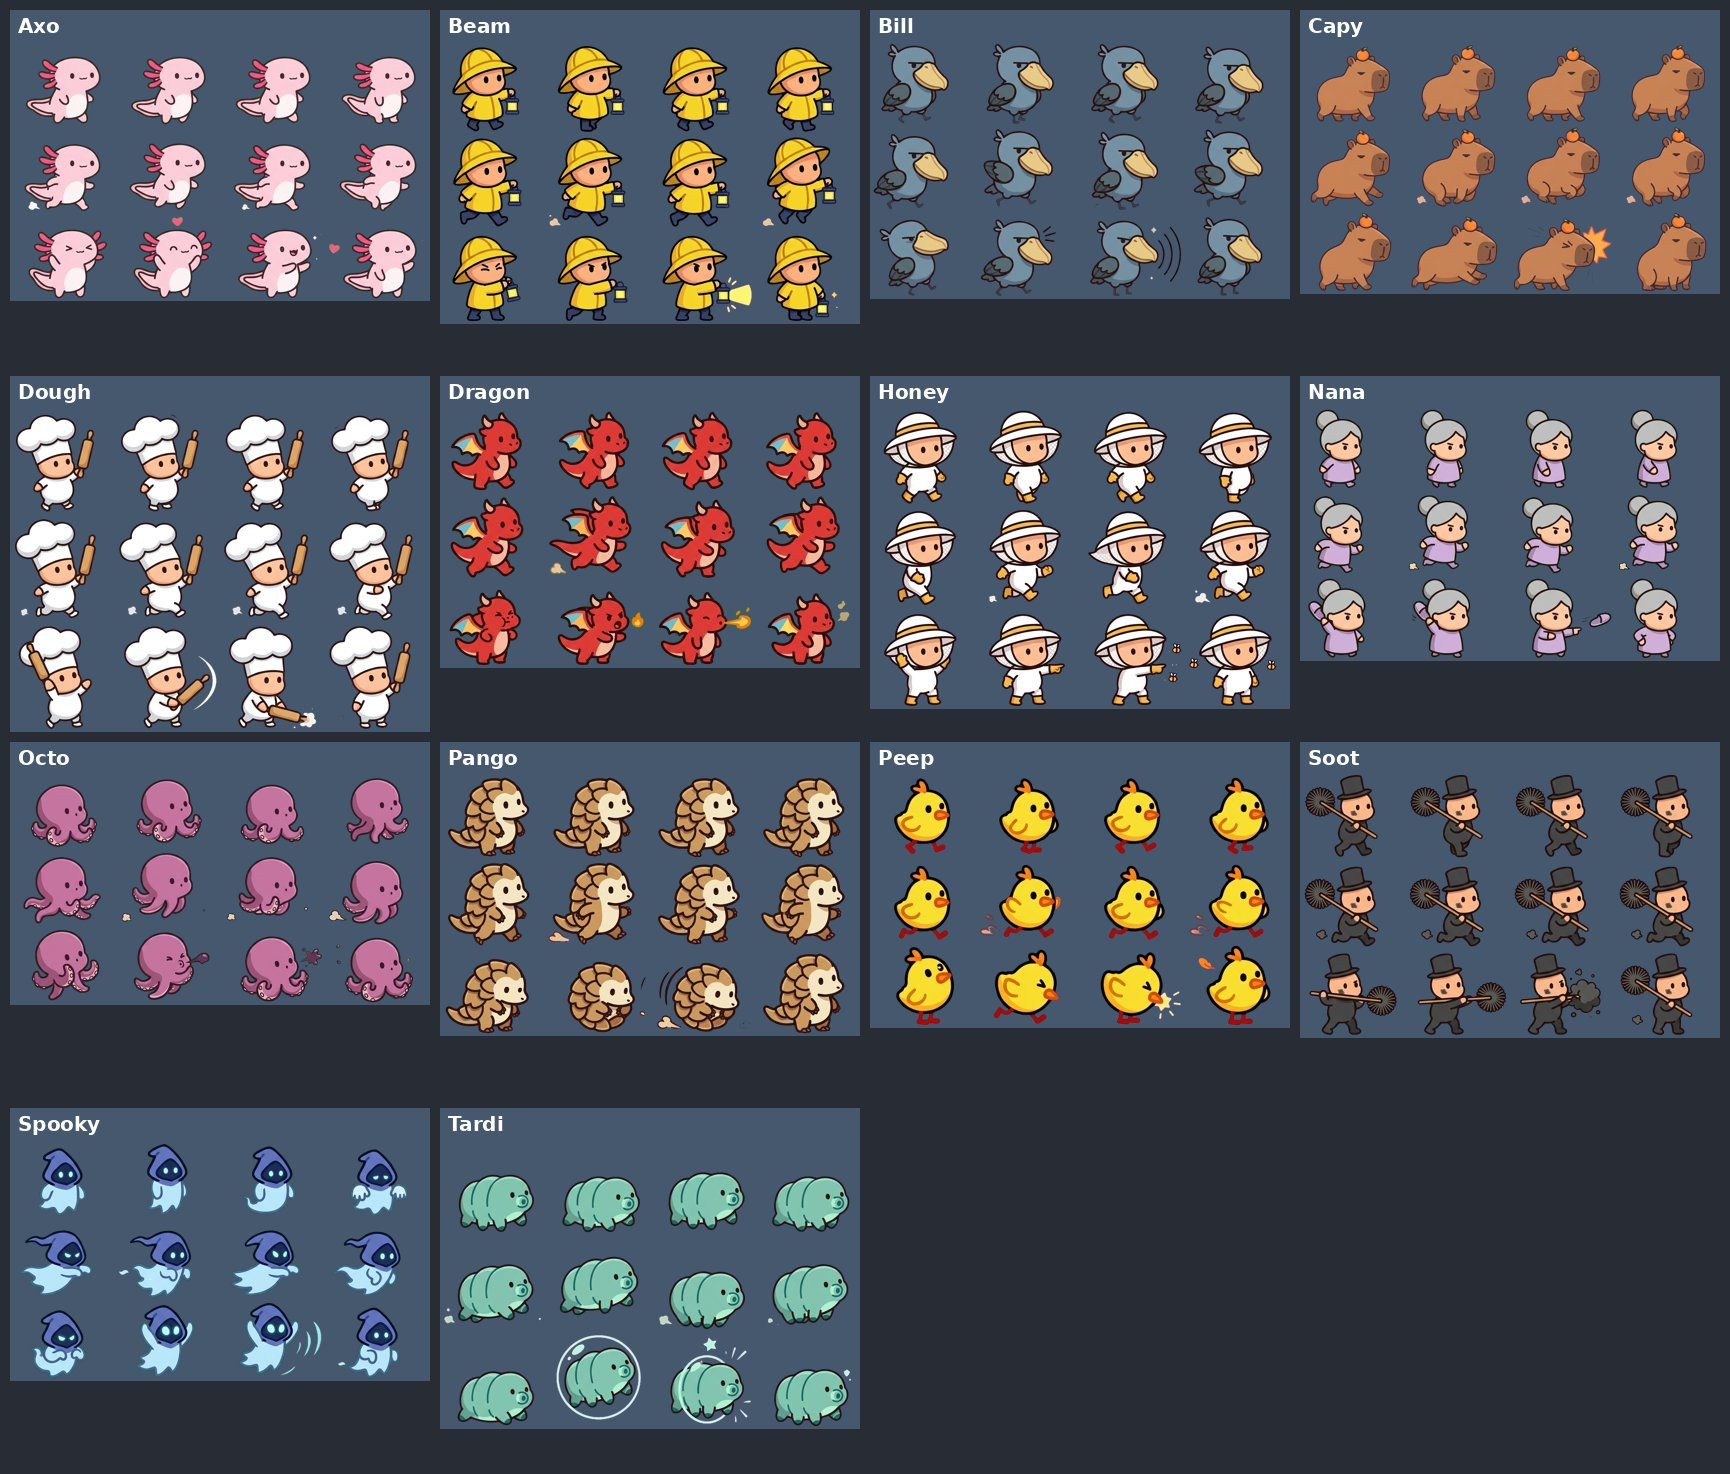
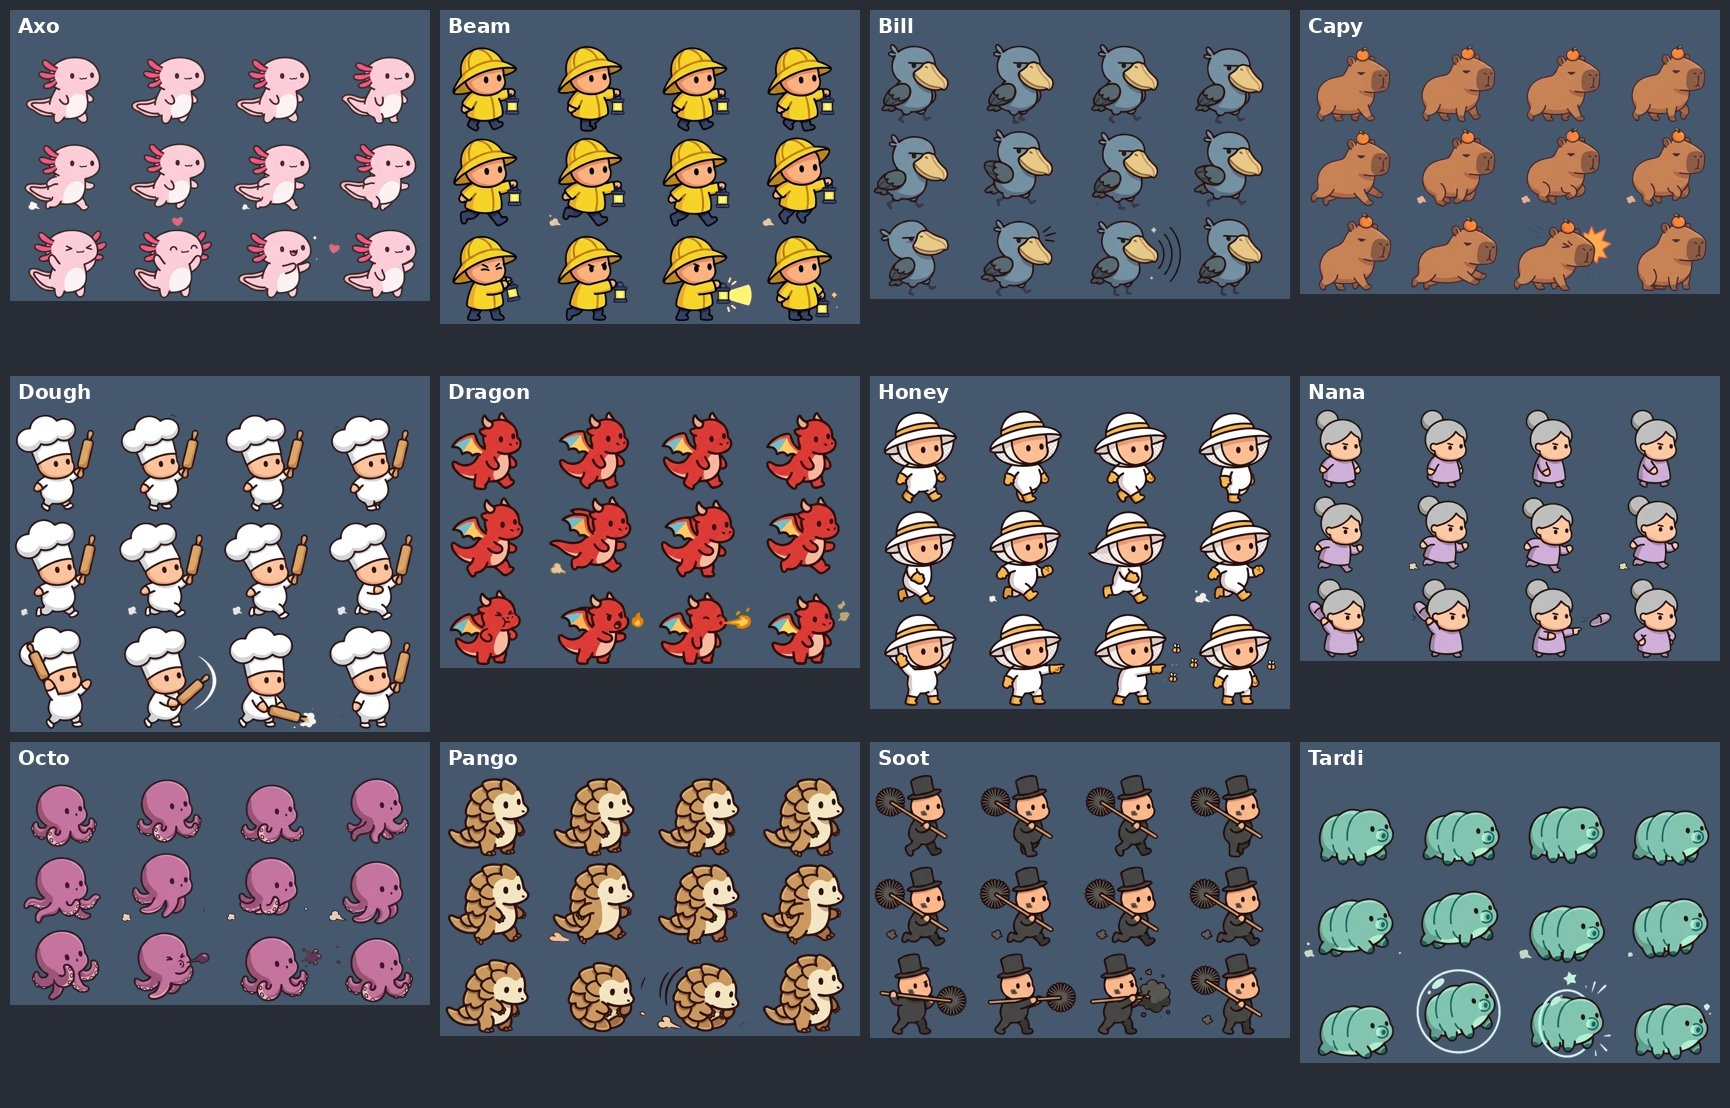
Remove Peep and Spooky
Claude-Session: https://claude.ai/code/session_01EhkagRdaEkRKXUjDzP8ARK

diff --git a/HANDOFF.md b/HANDOFF.md
@@ -13,11 +13,11 @@ This repo (`zqh7y/Game_Assets2`, branch `main`) holds the art. Push finished wor
 ## What already exists (all done, don't redo)
 
 - `brawlers/` - reference art for Beam, Dough, Soot, Honey, Nana, Capy, Axo, Pango,
-  Bill, Tardi, Octo. Peep, Dragon and Spooky are Artem's older originals and are not
-  in this folder.
-- `cards/` - `<Name>_card.png` for all 14: transparent, arch-shaped gold-rim pick card
+  Bill, Tardi, Octo. Dragon is one of Artem's older originals and is not in this folder.
+  Peep and Spooky were removed from the repo on Artem's request (Nov 24) - don't add them back.
+- `cards/` - `<Name>_card.png` for all 12: transparent, arch-shaped gold-rim pick card
   with a name ribbon and a count badge.
-- `animations/<Name>/` - for all 14: `<Name>_sheet_right.png` and `_sheet_left.png`
+- `animations/<Name>/` - for all 12: `<Name>_sheet_right.png` and `_sheet_left.png`
   (transparent, 3 rows x 4 frames, uniform cells: row 1 walk, row 2 run, row 3 attack),
   GIFs for walk / run / attack in both directions, and `<Name>_preview.gif`.
   Timing used in the GIFs: walk 140 ms per frame, run 90 ms, attack 150 ms with the
@@ -59,8 +59,6 @@ This repo (`zqh7y/Game_Assets2`, branch `main`) holds the art. Push finished wor
 | Tardi | tardigrade | tank | `tardi_bubble` |
 | Octo | octopus | ink squirt | `octo_ink` |
 | Dragon | baby dragon | fire puff | `dragon_fire` |
-| Peep | chick | swarm pecker | none yet |
-| Spooky | hooded ghost | boo scare | none yet |
 
 ## Artem's design laws (never break these)
 
@@ -72,8 +70,6 @@ This repo (`zqh7y/Game_Assets2`, branch `main`) holds the art. Push finished wor
 
 ## Known small flaws (fix only if Artem asks)
 
-- Peep and Spooky have no attack effect of their own.
-- Peep's run dust is pinkish; one Spooky float frame has paw hands.
 - The last `heal_sparkles` frame is greyish; tiny dust balls keep a faint pink rim.
 - Nana holds her slipper only in the attack row (on purpose, it fixed an
   inconsistency).

diff --git a/README.md b/README.md
@@ -26,9 +26,7 @@ Art assets for the brawler game.
 | Bill | shoebill | stare stun |
 | Tardi | tardigrade | tank |
 | Octo | octopus | ink squirt |
-| Peep | chick | swarm pecker |
 | Dragon | baby dragon | fire puff |
-| Spooky | hooded ghost | boo scare |
 
 ![All brawlers](brawlers/_overview.png)
 
@@ -81,4 +79,4 @@ Castle Island: the castle base on the island is where brawlers spawn, four gates
 - 3 colors per brawler plus the dark outline.
 - 3/4 side view facing right (mirror the image for left).
 
-Note: the `brawlers/` PNGs are screen captures (about 507x681); Peep, Dragon and Spooky are not in `brawlers/` (they use the original art from the game).
+Note: the `brawlers/` PNGs are screen captures (about 507x681); Dragon is not in `brawlers/` (he uses the original art from the game).
